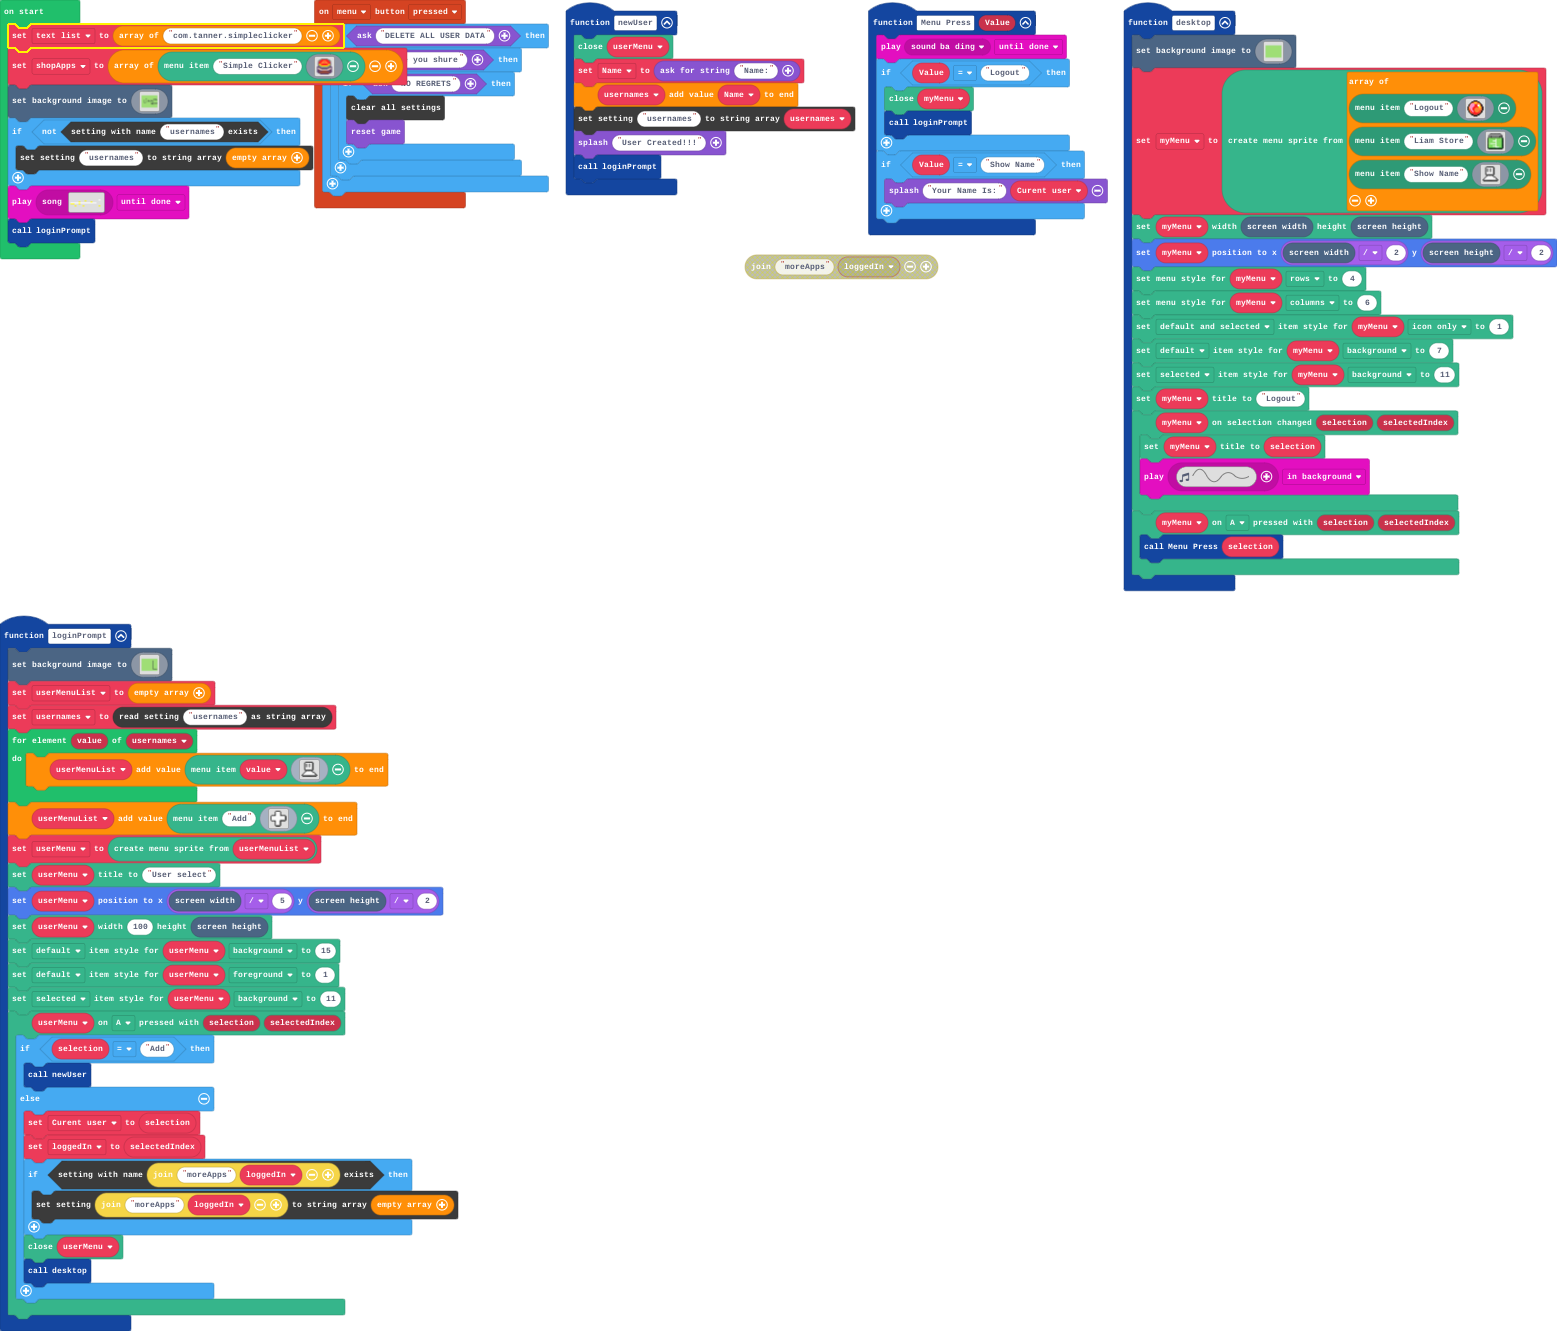
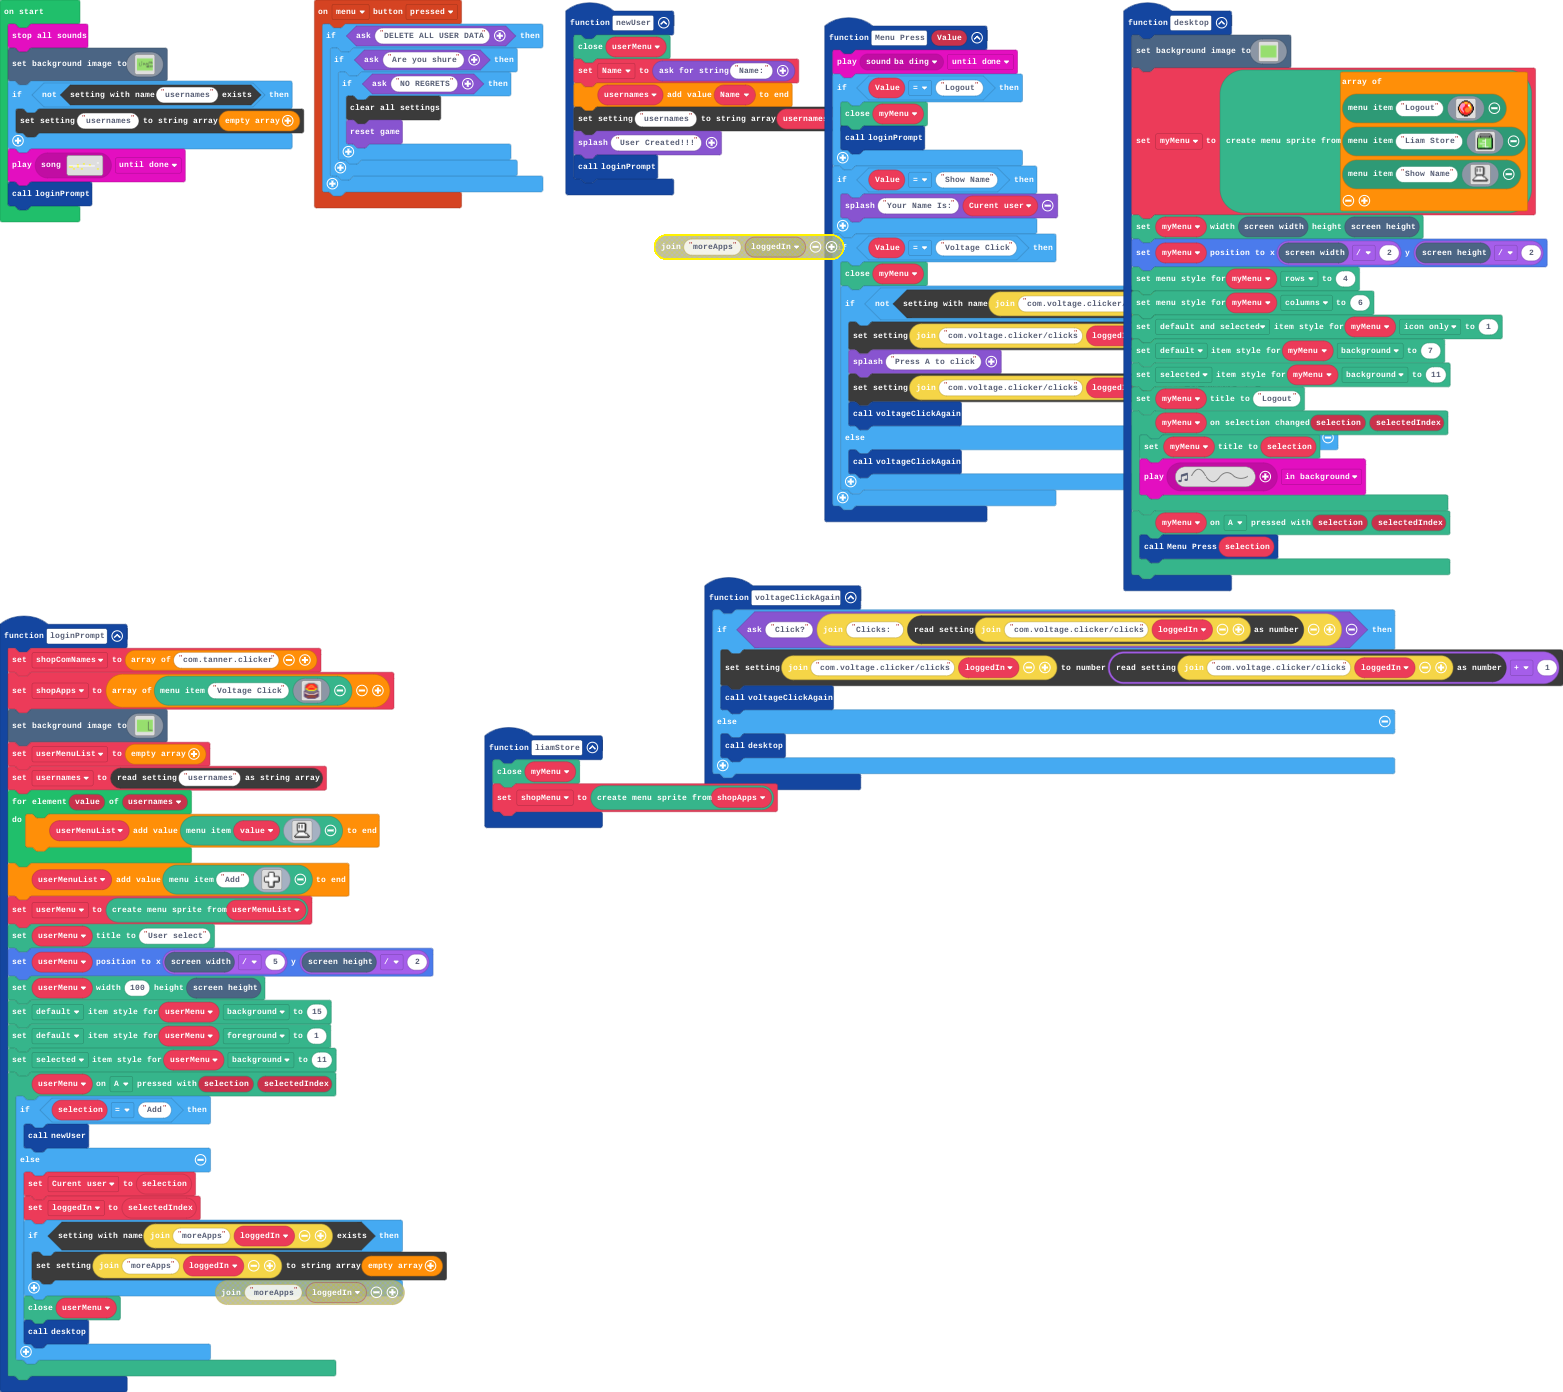
Restore '5/11/2024, 5:19:10 PM Update main.blocks'

Changed region(s): [[0.0, 0.0, 1.0, 0.6161], [0.0, 0.4313, 0.3083, 1.0]]

diff --git a/main.ts b/main.ts
@@ -1,4 +1,23 @@
 function loginPrompt () {
+    shopComNames = ["com.tanner.clicker"]
+    shopApps = [miniMenu.createMenuItem("Voltage Click", img`
+        . . . . 6 6 6 6 6 6 6 . . . . 
+        . . 6 6 2 2 2 2 2 2 2 6 6 . . 
+        . 6 6 2 2 2 4 4 4 2 2 2 6 6 . 
+        . 6 2 2 2 4 4 2 4 4 2 2 2 6 . 
+        . c 2 2 4 4 4 4 4 4 4 2 2 c . 
+        . c 5 2 4 2 2 2 2 2 4 2 5 c . 
+        . c 5 5 2 2 2 2 2 2 2 5 5 c . 
+        . c 6 6 5 5 5 5 5 5 5 6 6 c . 
+        c c 6 6 6 6 6 6 6 6 6 6 6 c c 
+        c d c c 6 6 6 6 6 6 6 c c d c 
+        c d d d c c c c c c c d d d c 
+        c c e d d d d d d d d d e c c 
+        c c c c c e e e e e c c c c c 
+        c c e e e e e e e e e e e c c 
+        . c c e e e e e e e e e c c . 
+        . . . c c c c c c c c c . . . 
+        `)]
     scene.setBackgroundImage(assets.image`Background`)
     userMenuList = []
     usernames = blockSettings.readStringArray("usernames")
@@ -124,6 +143,14 @@ function desktop () {
         Menu_Press(selection)
     })
 }
+function voltageClickAgain () {
+    if (game.ask("Click?", "Clicks: " + blockSettings.readNumber("com.voltage.clicker/clicks" + loggedIn))) {
+        blockSettings.writeNumber("com.voltage.clicker/clicks" + loggedIn, blockSettings.readNumber("com.voltage.clicker/clicks" + loggedIn) + 1)
+        voltageClickAgain()
+    } else {
+        desktop()
+    }
+}
 controller.menu.onEvent(ControllerButtonEvent.Pressed, function () {
     if (game.ask("DELETE ALL USER DATA")) {
         if (game.ask("Are you shure")) {
@@ -142,6 +169,10 @@ function newUser () {
     game.splash("User Created!!!")
     loginPrompt()
 }
+function liamStore () {
+    myMenu.close()
+    shopMenu = miniMenu.createMenuFromArray(shopApps)
+}
 function Menu_Press (Value: string) {
     music.play(music.melodyPlayable(music.baDing), music.PlaybackMode.UntilDone)
     if (Value == "Logout") {
@@ -151,7 +182,19 @@ function Menu_Press (Value: string) {
     if (Value == "Show Name") {
         game.splash("Your Name Is:", Curent_user)
     }
+    if (Value == "Voltage Click") {
+        myMenu.close()
+        if (!(blockSettings.exists("com.voltage.clicker/clicks" + loggedIn))) {
+            blockSettings.writeNumber("com.voltage.clicker/clicks" + loggedIn, 0)
+            game.splash("Press A to click")
+            blockSettings.writeNumber("com.voltage.clicker/clicks" + loggedIn, 1)
+            voltageClickAgain()
+        } else {
+            voltageClickAgain()
+        }
+    }
 }
+let shopMenu: miniMenu.MenuSprite = null
 let Name = ""
 let myMenu: miniMenu.MenuSprite = null
 let loggedIn = 0
@@ -159,25 +202,9 @@ let Curent_user = ""
 let userMenu: miniMenu.MenuSprite = null
 let usernames: string[] = []
 let userMenuList: miniMenu.MenuItem[] = []
-let text_list = ["com.tanner.simpleclicker"]
-let shopApps = [miniMenu.createMenuItem("Simple Clicker", img`
-    . . . . 6 6 6 6 6 6 6 . . . . 
-    . . 6 6 2 2 2 2 2 2 2 6 6 . . 
-    . 6 6 2 2 2 4 4 4 2 2 2 6 6 . 
-    . 6 2 2 2 4 4 2 4 4 2 2 2 6 . 
-    . c 2 2 4 4 4 4 4 4 4 2 2 c . 
-    . c 5 2 4 2 2 2 2 2 4 2 5 c . 
-    . c 5 5 2 2 2 2 2 2 2 5 5 c . 
-    . c 6 6 5 5 5 5 5 5 5 6 6 c . 
-    c c 6 6 6 6 6 6 6 6 6 6 6 c c 
-    c d c c 6 6 6 6 6 6 6 c c d c 
-    c d d d c c c c c c c d d d c 
-    c c e d d d d d d d d d e c c 
-    c c c c c e e e e e c c c c c 
-    c c e e e e e e e e e e e c c 
-    . c c e e e e e e e e e c c . 
-    . . . c c c c c c c c c . . . 
-    `)]
+let shopApps: miniMenu.MenuItem[] = []
+let shopComNames: string[] = []
+music.stopAllSounds()
 scene.setBackgroundImage(img`
     7777777777777777777777777777777777777777777777777777777777777777777777777777777777777777777777777777777777777777777777777777777777777777777777777777777777777777
     7777777777777777777777777777777777777777777777777777777777777777777777777777777777777777777777777777777777777777777777777777777777777777777777777777777777777777

diff --git a/README.md b/README.md
@@ -22,7 +22,7 @@ To edit this repository in MakeCode.
 
 ## Blocks preview
 
-This image shows the blocks code from the last commit in master.
+This image shows the block code from the last commit in master.
 This image may take a few minutes to refresh.
 
 ![A rendered view of the blocks](https://github.com/liamserver27/liam-os/raw/master/.github/makecode/blocks.png)
@@ -31,3 +31,6 @@ This image may take a few minutes to refresh.
 
 * for PXT/arcade
 <script src="https://makecode.com/gh-pages-embed.js"></script><script>makeCodeRender("{{ site.makecode.home_url }}", "{{ site.github.owner_name }}/{{ site.github.repository_name }}");</script>
+
+
+# This is awesome
